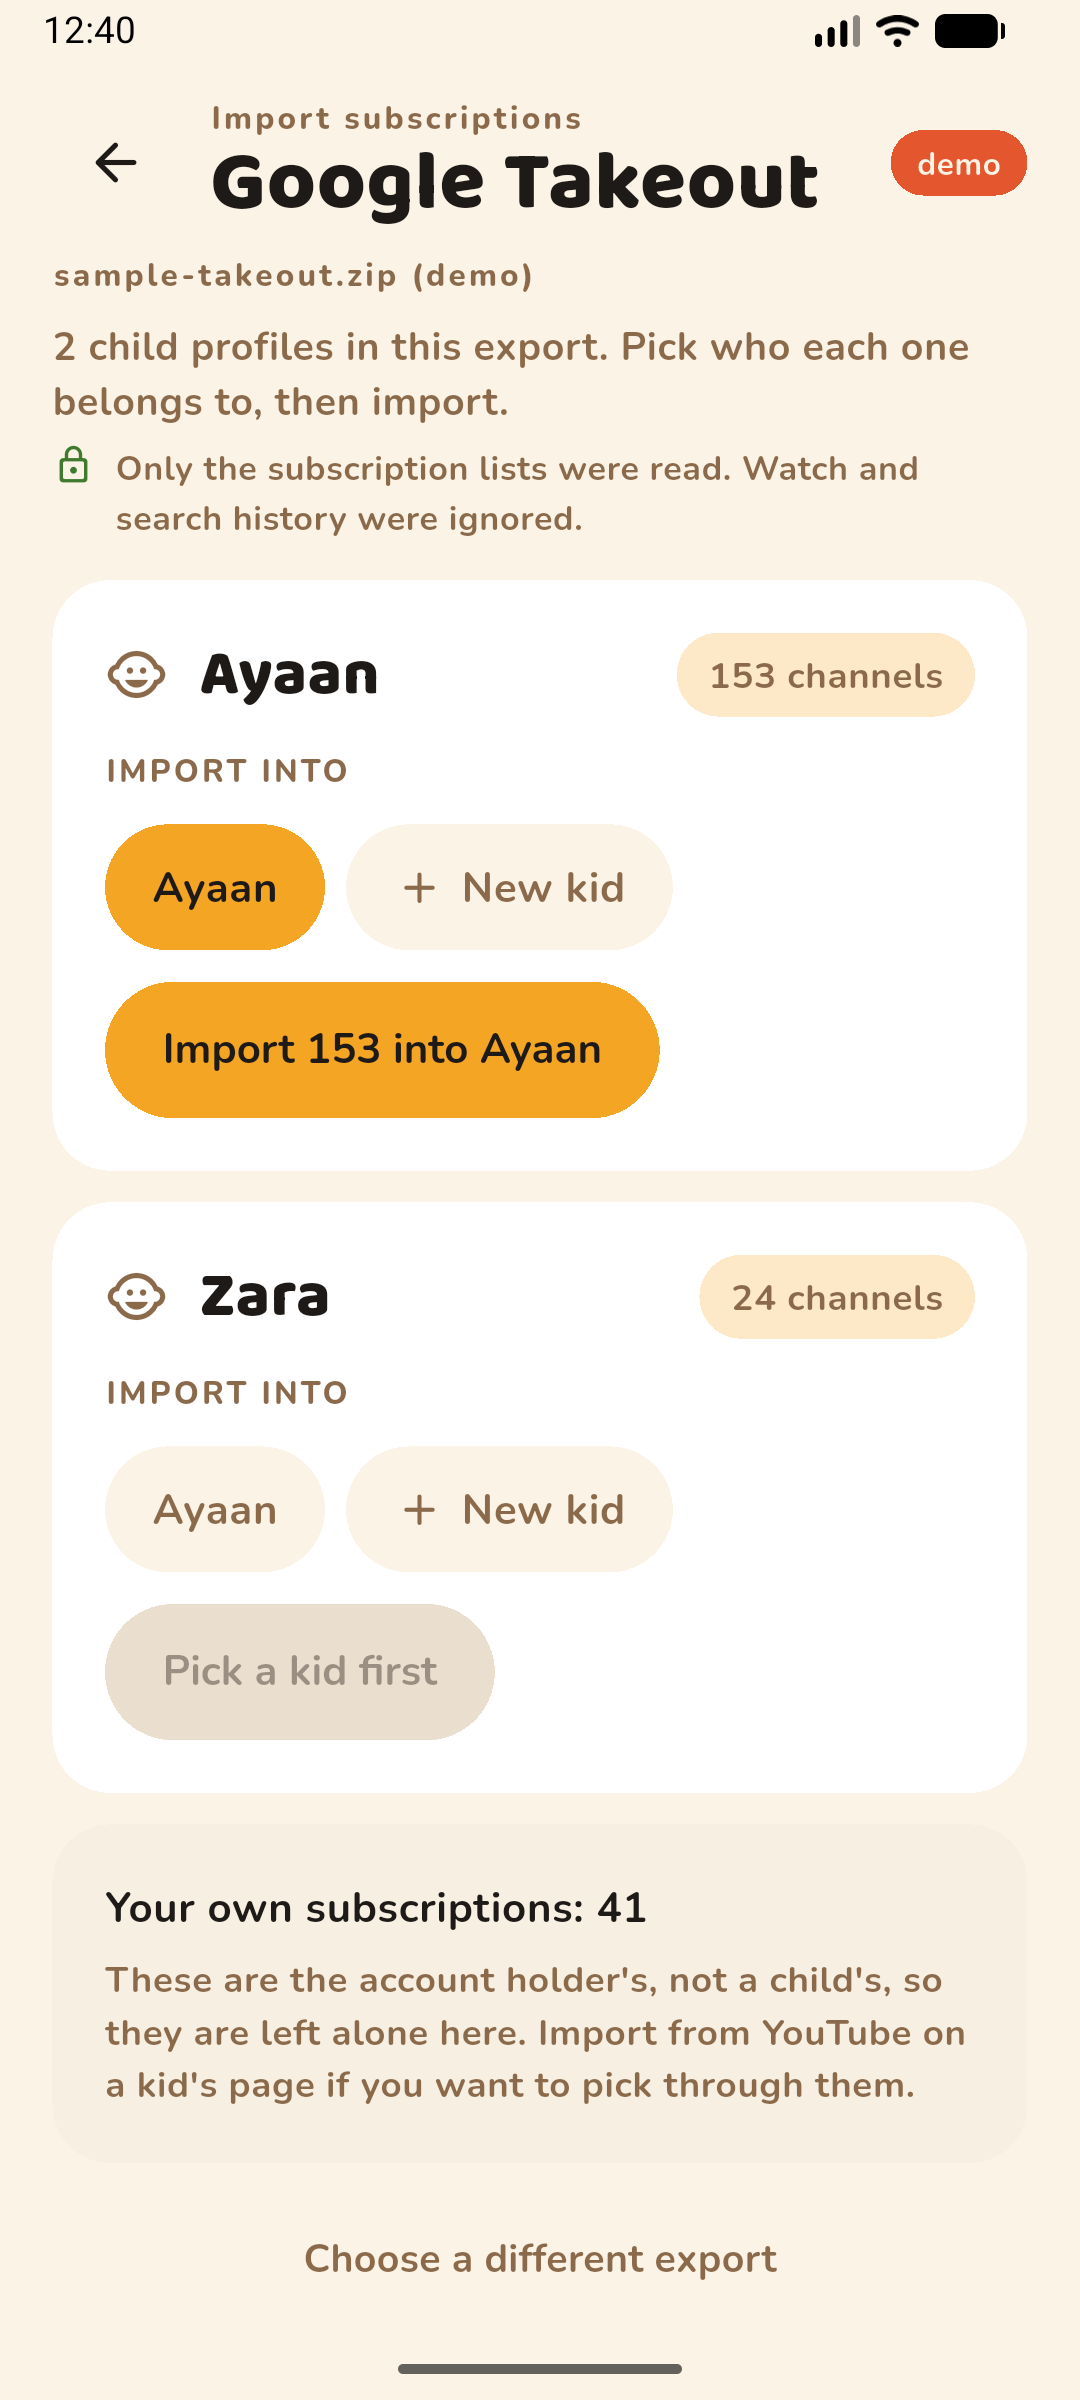
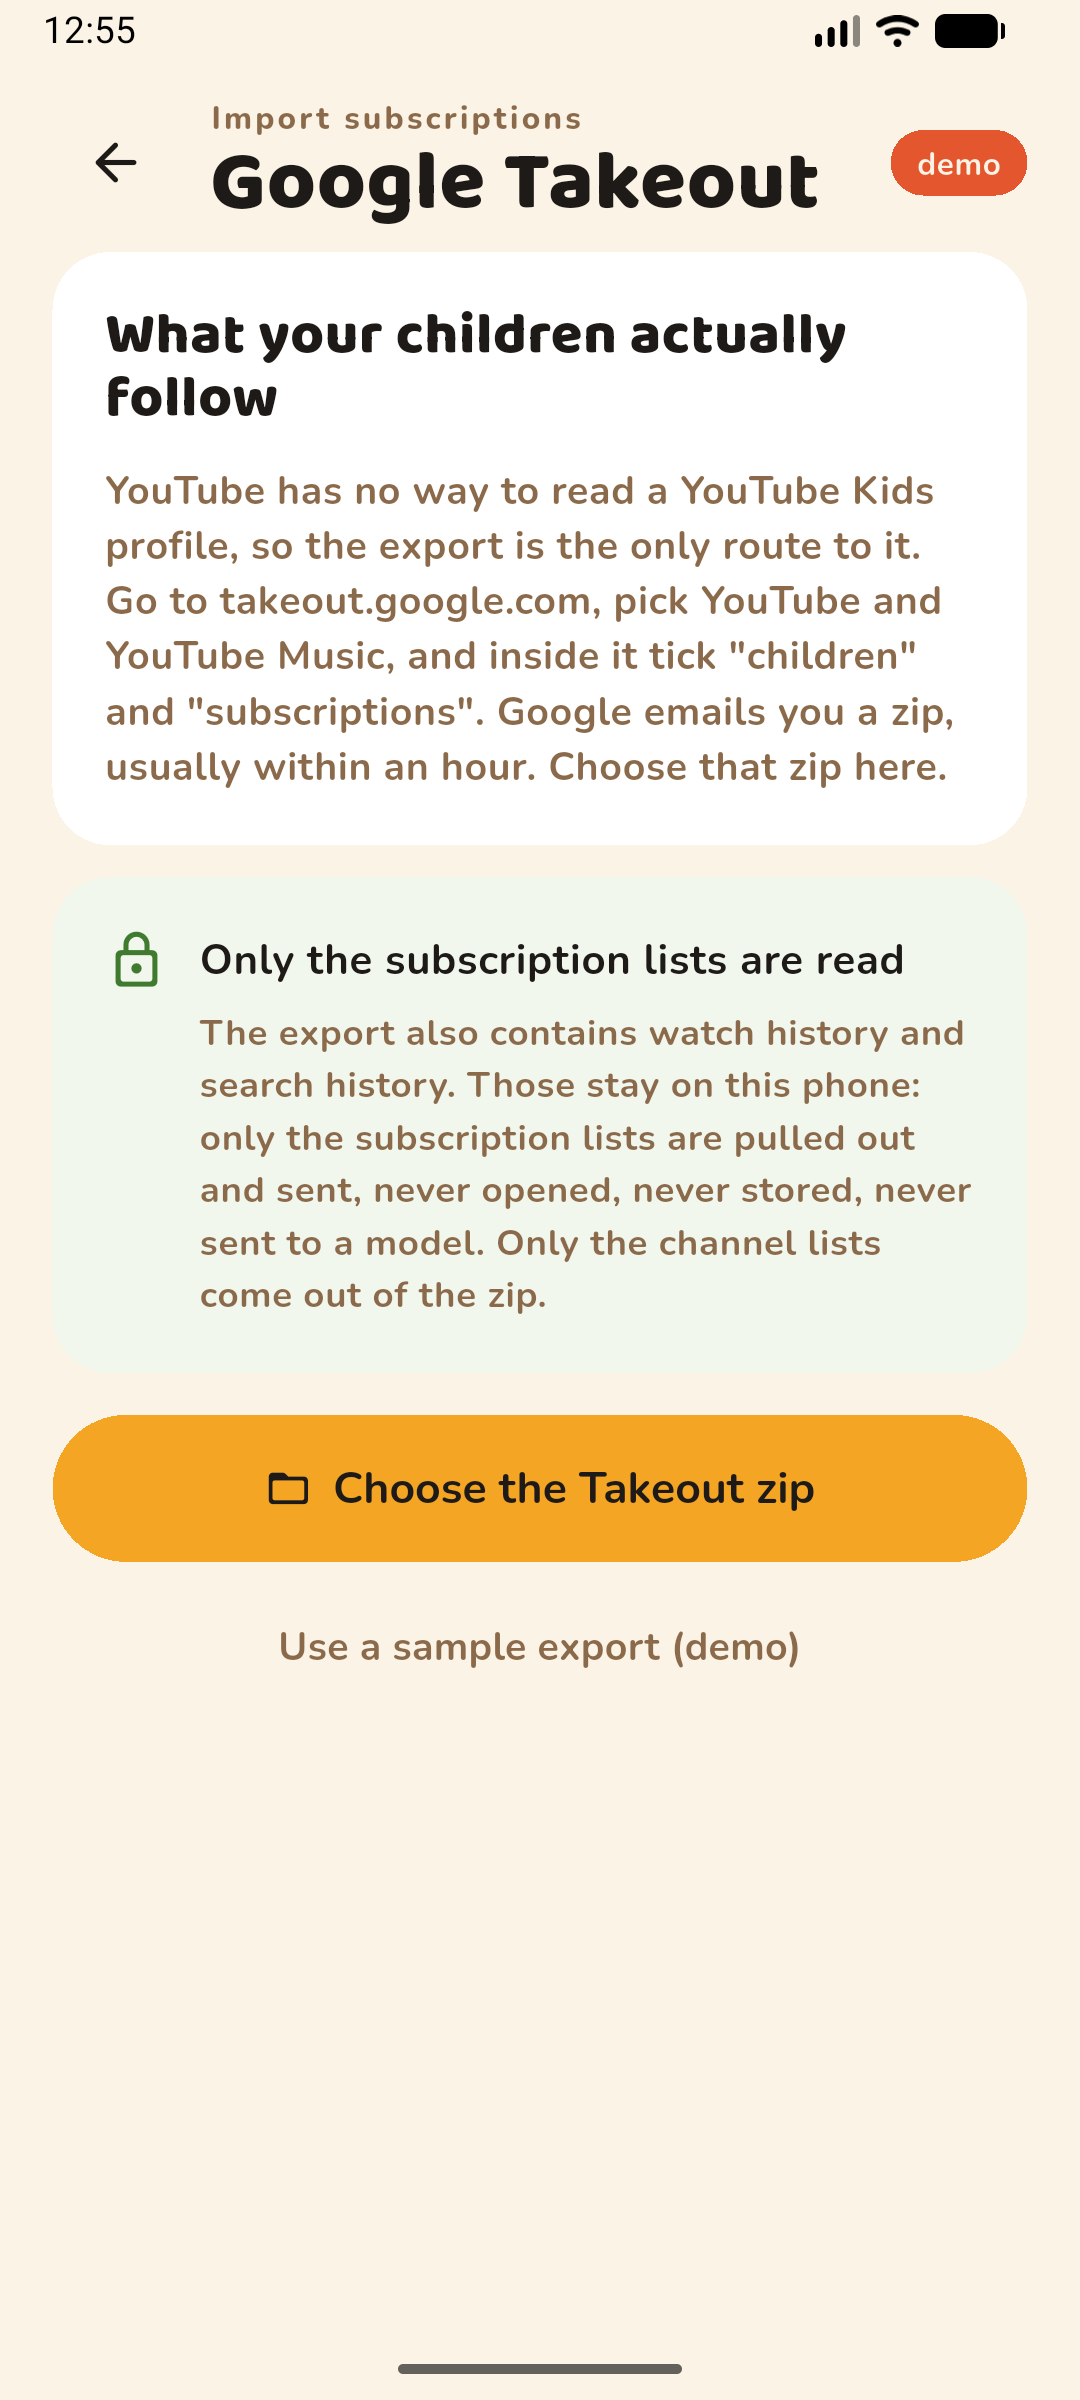
Neutral sample profile names; capture the Takeout import screens
The demo sample export had reintroduced invented children's names. Sample
profiles are now Profile 1 and Profile 2, in app code and test fixtures.

diff --git a/app/test/takeout_slim_test.dart b/app/test/takeout_slim_test.dart
@@ -5,7 +5,11 @@ import 'package:flutter_test/flutter_test.dart';
 import 'package:heygilli/core/takeout_slim.dart';
 
 /// Writes a zip with the given members and returns it.
-File _zip(Directory dir, Map<String, String> members, {String name = 'takeout.zip'}) {
+File _zip(
+  Directory dir,
+  Map<String, String> members, {
+  String name = 'takeout.zip',
+}) {
   final archive = Archive();
   members.forEach((path, body) {
     archive.addFile(ArchiveFile.string(path, body));
@@ -28,7 +32,8 @@ void main() {
   group('what leaves the phone', () {
     test('watch and search history are not in the uploaded zip', () async {
       final src = _zip(tmp, {
-        'Takeout/YouTube and YouTube Music/children/Abu/subscriptions.csv': _csv,
+        'Takeout/YouTube and YouTube Music/children/Abu/subscriptions.csv':
+            _csv,
         'Takeout/YouTube and YouTube Music/children/Abu/watch-history.html':
             '<html>every video the child watched</html>',
         'Takeout/YouTube and YouTube Music/children/Abu/search-history.html':
@@ -47,22 +52,30 @@ void main() {
 
     test('every child profile and the parent list are carried across', () async {
       final src = _zip(tmp, {
-        'Takeout/YouTube and YouTube Music/children/Abu/subscriptions.csv': _csv,
-        'Takeout/YouTube and YouTube Music/children/Abeeha/subscriptions.csv': _csv,
-        'Takeout/YouTube and YouTube Music/subscriptions/subscriptions.csv': _csv,
-        'Takeout/YouTube and YouTube Music/children/Abeeha/watch-history.html': 'x',
+        'Takeout/YouTube and YouTube Music/children/Abu/subscriptions.csv':
+            _csv,
+        'Takeout/YouTube and YouTube Music/children/Abeeha/subscriptions.csv':
+            _csv,
+        'Takeout/YouTube and YouTube Music/subscriptions/subscriptions.csv':
+            _csv,
+        'Takeout/YouTube and YouTube Music/children/Abeeha/watch-history.html':
+            'x',
       });
 
       final slim = await slimTakeout(src, workDir: tmp);
 
       expect(slim.kept, 3);
       expect(slim.skipped, 1);
-      expect(open(slim.file).files.map((f) => f.name), everyElement(endsWith('.csv')));
+      expect(
+        open(slim.file).files.map((f) => f.name),
+        everyElement(endsWith('.csv')),
+      );
     });
 
     test('the CSV contents survive the round trip intact', () async {
       final src = _zip(tmp, {
-        'Takeout/YouTube and YouTube Music/children/Abu/subscriptions.csv': _csv,
+        'Takeout/YouTube and YouTube Music/children/Abu/subscriptions.csv':
+            _csv,
       });
 
       final slim = await slimTakeout(src, workDir: tmp);
@@ -73,7 +86,8 @@ void main() {
 
     test('the slim copy is a different file from the one picked', () async {
       final src = _zip(tmp, {
-        'Takeout/YouTube and YouTube Music/children/Abu/subscriptions.csv': _csv,
+        'Takeout/YouTube and YouTube Music/children/Abu/subscriptions.csv':
+            _csv,
       });
 
       final slim = await slimTakeout(src, workDir: tmp);
@@ -84,22 +98,25 @@ void main() {
   });
 
   group('what is refused', () {
-    test('an export with no subscription lists is refused with advice', () async {
-      final src = _zip(tmp, {
-        'Takeout/YouTube and YouTube Music/history/watch-history.html': 'x',
-      });
+    test(
+      'an export with no subscription lists is refused with advice',
+      () async {
+        final src = _zip(tmp, {
+          'Takeout/YouTube and YouTube Music/history/watch-history.html': 'x',
+        });
 
-      expect(
-        () => slimTakeout(src, workDir: tmp),
-        throwsA(
-          isA<NotATakeoutExport>().having(
-            (e) => e.message,
-            'message',
-            contains('children'),
+        expect(
+          () => slimTakeout(src, workDir: tmp),
+          throwsA(
+            isA<NotATakeoutExport>().having(
+              (e) => e.message,
+              'message',
+              contains('children'),
+            ),
           ),
-        ),
-      );
-    });
+        );
+      },
+    );
 
     test('a file that is not a zip is refused, not crashed on', () async {
       final notZip = File('${tmp.path}/notes.txt')..writeAsStringSync('hello');

diff --git a/app/test/takeout_test.dart b/app/test/takeout_test.dart
@@ -13,7 +13,7 @@ void main() {
       final preview = TakeoutPreview.fromJson({
         'profiles': [
           {
-            'name': 'Zara',
+            'name': 'Profile 2',
             'channel_count': 2,
             'channels': [
               {
@@ -33,13 +33,13 @@ void main() {
         },
       });
 
-      final zara = preview.profiles.single;
-      expect(zara.name, 'Zara');
-      expect(zara.channelCount, 2);
-      expect(zara.channelIds, ['ch_a', 'ch_b']);
-      expect(zara.channels.first.url, 'https://youtube.com/channel/ch_a');
+      final profileTwo = preview.profiles.single;
+      expect(profileTwo.name, 'Profile 2');
+      expect(profileTwo.channelCount, 2);
+      expect(profileTwo.channelIds, ['ch_a', 'ch_b']);
+      expect(profileTwo.channels.first.url, 'https://youtube.com/channel/ch_a');
       // A CSV row with no URL column is still a usable channel.
-      expect(zara.channels.last.url, isEmpty);
+      expect(profileTwo.channels.last.url, isEmpty);
 
       // The parent block carries no name: it is not a child profile.
       expect(preview.parent!.name, isEmpty);
@@ -56,7 +56,7 @@ void main() {
 
     test('a missing channel_count falls back to what is listed', () {
       final profile = TakeoutProfile.fromJson({
-        'name': 'Ayaan',
+        'name': 'Profile 1',
         'channels': [
           {'channel_id': 'ch_a', 'title': 'A'},
           {'channel_id': 'ch_b', 'title': 'B'},

diff --git a/app/lib/features/parent/takeout_import_screen.dart b/app/lib/features/parent/takeout_import_screen.dart
@@ -372,8 +372,8 @@ class _ProfileCardState extends State<_ProfileCard> {
   @override
   Widget build(BuildContext context) {
     final kids = context.select<AppState, List<Kid>>((s) => s.kids);
-    // A profile called "Zara" almost certainly belongs to the kid called
-    // "Zara"; preselect that, and let the parent change it.
+    // A profile whose name matches an existing kid almost certainly belongs
+    // to that kid; preselect it, and let the parent change it.
     final match = kids
         .where(
           (k) => k.nickname.toLowerCase() == widget.profile.name.toLowerCase(),

diff --git a/app/lib/core/fake_gateway.dart b/app/lib/core/fake_gateway.dart
@@ -427,12 +427,12 @@ class FakeGateway implements Gateway {
     return TakeoutPreview(
       profiles: [
         TakeoutProfile(
-          name: 'Ayaan',
+          name: 'Profile 1',
           channelCount: DemoCatalogue.older.length,
           channels: [for (final c in DemoCatalogue.older) c.toTakeoutChannel()],
         ),
         TakeoutProfile(
-          name: 'Zara',
+          name: 'Profile 2',
           channelCount: DemoCatalogue.younger.length,
           channels: [
             for (final c in DemoCatalogue.younger) c.toTakeoutChannel(),
